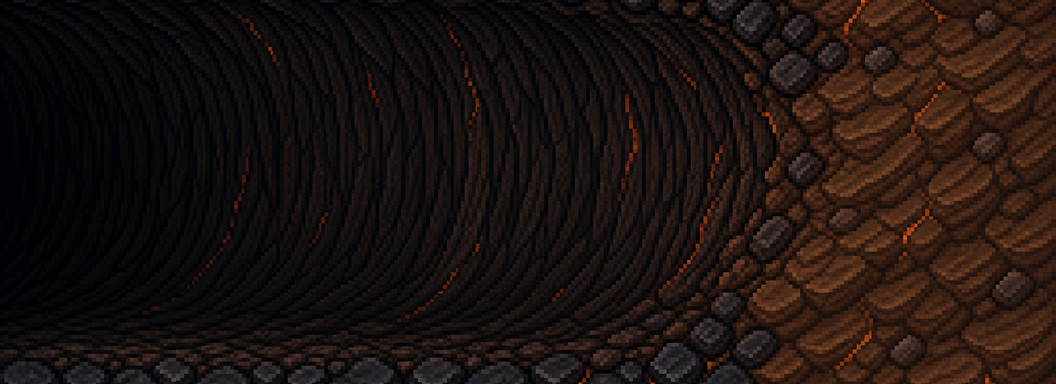
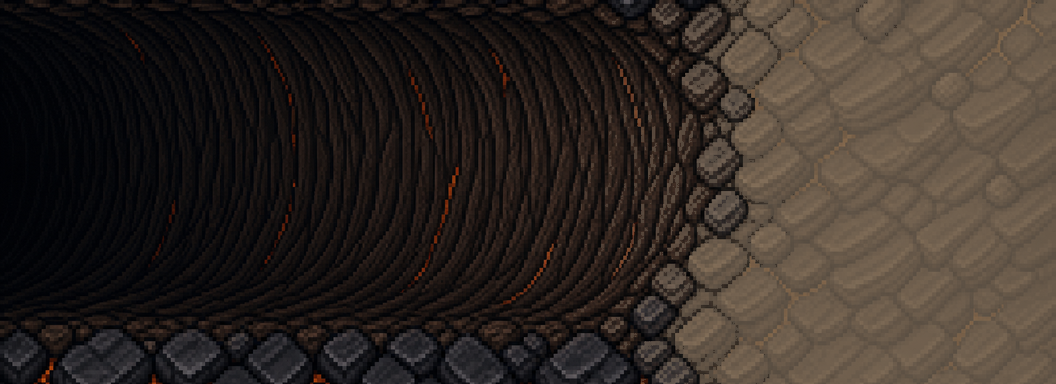
fix: lighten earthy tunnel transition

diff --git a/src/scenes/GameScene.ts b/src/scenes/GameScene.ts
@@ -24,7 +24,7 @@ import { atlasFrameForTile, backwallFrameForTile, tileKey, worldToTile } from '.
 type CursorKeys = Phaser.Types.Input.Keyboard.CursorKeys;
 type Facing = 'east' | 'west';
 
-const GENERATED_ASSET_VERSION = 'tunnel-bedrock-earth-20260501-2125';
+const GENERATED_ASSET_VERSION = 'light-earth-transition-20260501-2134';
 
 export class GameScene extends Phaser.Scene {
   private generator = new GravityDigLevelGenerator();
